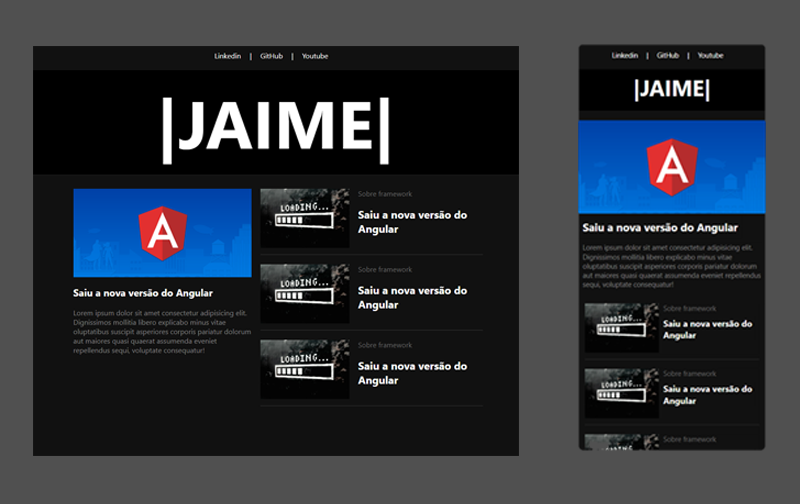
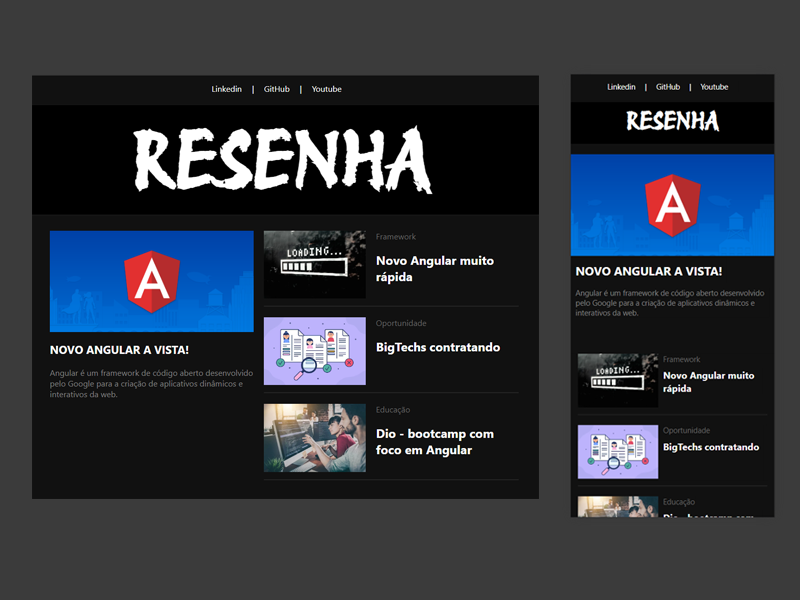
content Page dinâmica + atualizações

Changed region(s): [[0.0312, 0.0893, 0.9688, 0.9226]]

diff --git a/src/app/data/dataFake.ts b/src/app/data/dataFake.ts
@@ -1,14 +1,30 @@
 export const dataFake = [
     {
-        "id": 1,
-        "photo":"aaa",
-        "title": "novo angular",
-        "description": "Lorem ipsum dolor, sit amet consectetur adipisicing elit. Eligendi non, tempore id quos nostrum vitae numquam fuga fugiat, eum nemo perspiciatis natus doloremque quisquam unde sequi rerum voluptas voluptates enim?"
+        "id": "1",
+        "title": "NOVO ANGULAR A VISTA!",
+        "description": "Angular é um framework de código aberto desenvolvido pelo Google para a criação de aplicativos dinâmicos e interativos da web.",
+        "photoCover": "https://wallpapercave.com/wp/wp5722053.png"
     },
     {
-        "id": 2,
-        "photo":"aaa",
-        "title": "novo angular",
-        "description": "Lorem ipsum dolor, sit amet consectetur adipisicing elit. Eligendi non, tempore id quos nostrum vitae numquam fuga fugiat, eum nemo perspiciatis natus doloremque quisquam unde sequi rerum voluptas voluptates enim?"
+        "id": "2",        
+        "title": "Novo Angular muito rápida",
+        "description": "Lorem ipsum dolor, sit amet consectetur adipisicing elit. Eligendi non, tempore id quos nostrum vitae numquam fuga fugiat, eum nemo perspiciatis natus doloremque quisquam unde sequi rerum voluptas voluptates enim?",
+        "photoCover": "https://miro.medium.com/v2/resize:fit:720/format:webp/0*LSNoSU-BTMTfpgZr"
+    },
+    {
+        "id": "3",        
+        "title": "BigTechs contratando",
+        "description": "Lorem ipsum dolor, sit amet consectetur adipisicing elit. Eligendi non, tempore id quos nostrum vitae numquam fuga fugiat, eum nemo perspiciatis natus doloremque quisquam unde sequi rerum voluptas voluptates enim?",
+        "photoCover": "https://img.freepik.com/vetores-gratis/conceito-de-recrutamento_23-2148628411.jpg?size=626&ext=jpg&ga=GA1.1.1448711260.1706313600&semt=ais"
+    },
+    {
+        "id": "4",        
+        "title": "Dio - bootcamp com foco em Angular",
+        "description": "Lorem ipsum dolor, sit amet consectetur adipisicing elit. Eligendi non, tempore id quos nostrum vitae numquam fuga fugiat, eum nemo perspiciatis natus doloremque quisquam unde sequi rerum voluptas voluptates enim?",
+        "photoCover": "https://hermes.dio.me/articles/cover/1b06a62a-a94e-4163-9ffa-620c59144565.jpg"
     }
+    
+
+
+
 ]

diff --git a/src/app/pages/content/content.component.ts b/src/app/pages/content/content.component.ts
@@ -1,5 +1,6 @@
 import { Component, Input, OnInit } from '@angular/core';
 import { ActivatedRoute } from '@angular/router';
+import { dataFake } from '../../data/dataFake';
 
 @Component({
   selector: 'app-content',
@@ -8,20 +9,30 @@ import { ActivatedRoute } from '@angular/router';
 })
 export class ContentComponent implements OnInit {  
   @Input()
-  photoCover:string = "https://unblast.com/wp-content/uploads/2022/08/Programmer-Illustration-Dark.jpg"
+  photoCover:string = ""
   @Input()
-  contentTitle:string = "MINHA NOTÍCIA"
+  contentTitle:string = ""
   @Input()
-  contentDescription:string = "Lorem ipsum dolor, sit amet consectetur adipisicing elit. Eligendi non, tempore id quos nostrum vitae numquam fuga fugiat, eum nemo perspiciatis natus doloremque quisquam unde sequi rerum voluptas voluptates enim?"
+  contentDescription:string = ""
+  private id:string | null = "0"
 
   constructor(
-    private router:ActivatedRoute
+    private route:ActivatedRoute
   ) { }
 
   ngOnInit(): void {
-    this.router.paramMap.subscribe( value =>
-      console.log(value.get("id"))
+    this.route.paramMap.subscribe( value =>
+      this.id = value.get("id")
     )
+    this.setValuesToComponent(this.id)
+  }
+
+  setValuesToComponent(id:string | null){
+    const result = dataFake.filter(article => article.id == id)[0]
+    
+    this.contentTitle = result.title
+    this.contentDescription = result.description
+    this.photoCover = result.photoCover
   }
 
 }

diff --git a/src/app/pages/content/content.component.css b/src/app/pages/content/content.component.css
@@ -1,7 +1,6 @@
 .container__content{
-    border: 1px solid white;
-    width: 100%;
-    height: 100vh;
+    width: 100%px;
+    height: 700px;
 
     margin-top: 20px;
 
@@ -14,13 +13,13 @@
 .content__description {
     margin-top: 20px;
 }
+
 .content__description > p{
     width: 500px;
     color: grey;
 }
 
-.content__cover > img{
-    border: 5px solid rgb(82, 73, 73);
+.content__cover > img{    
     border-radius: 5px;
     width: 500px;
     min-width: 500px;

diff --git a/src/app/pages/content/content.component.html b/src/app/pages/content/content.component.html
@@ -2,10 +2,12 @@
     <div class="content__cover">
         <img src="{{ photoCover }}" alt="" srcset="">
     </div>
-    <a [routerLink]="['']"><< VOLTAR</a>
     <div class="content__title">
         <h1>{{ contentTitle }}</h1>
         <hr/>
+    </div>
+    <div class="content__voltar">
+        <a [routerLink]="['']"><< VOLTAR</a>
     </div>
     <div class="content__description">
         <p>{{ contentDescription }}</p>        

diff --git a/src/index.html b/src/index.html
@@ -2,7 +2,7 @@
 <html lang="en">
 <head>
   <meta charset="utf-8">
-  <title>AngularBlog</title>
+  <title>ResenhaBlog</title>
   <base href="/">
   <meta name="viewport" content="width=device-width, initial-scale=1">
   <link rel="icon" type="image/x-icon" href="favicon.ico">

diff --git a/src/styles.css b/src/styles.css
@@ -6,7 +6,6 @@
     background-color: #111111;
     color: white;
     font-family: 'Segoe UI';
-
 }
 a{
     text-decoration: none;    
